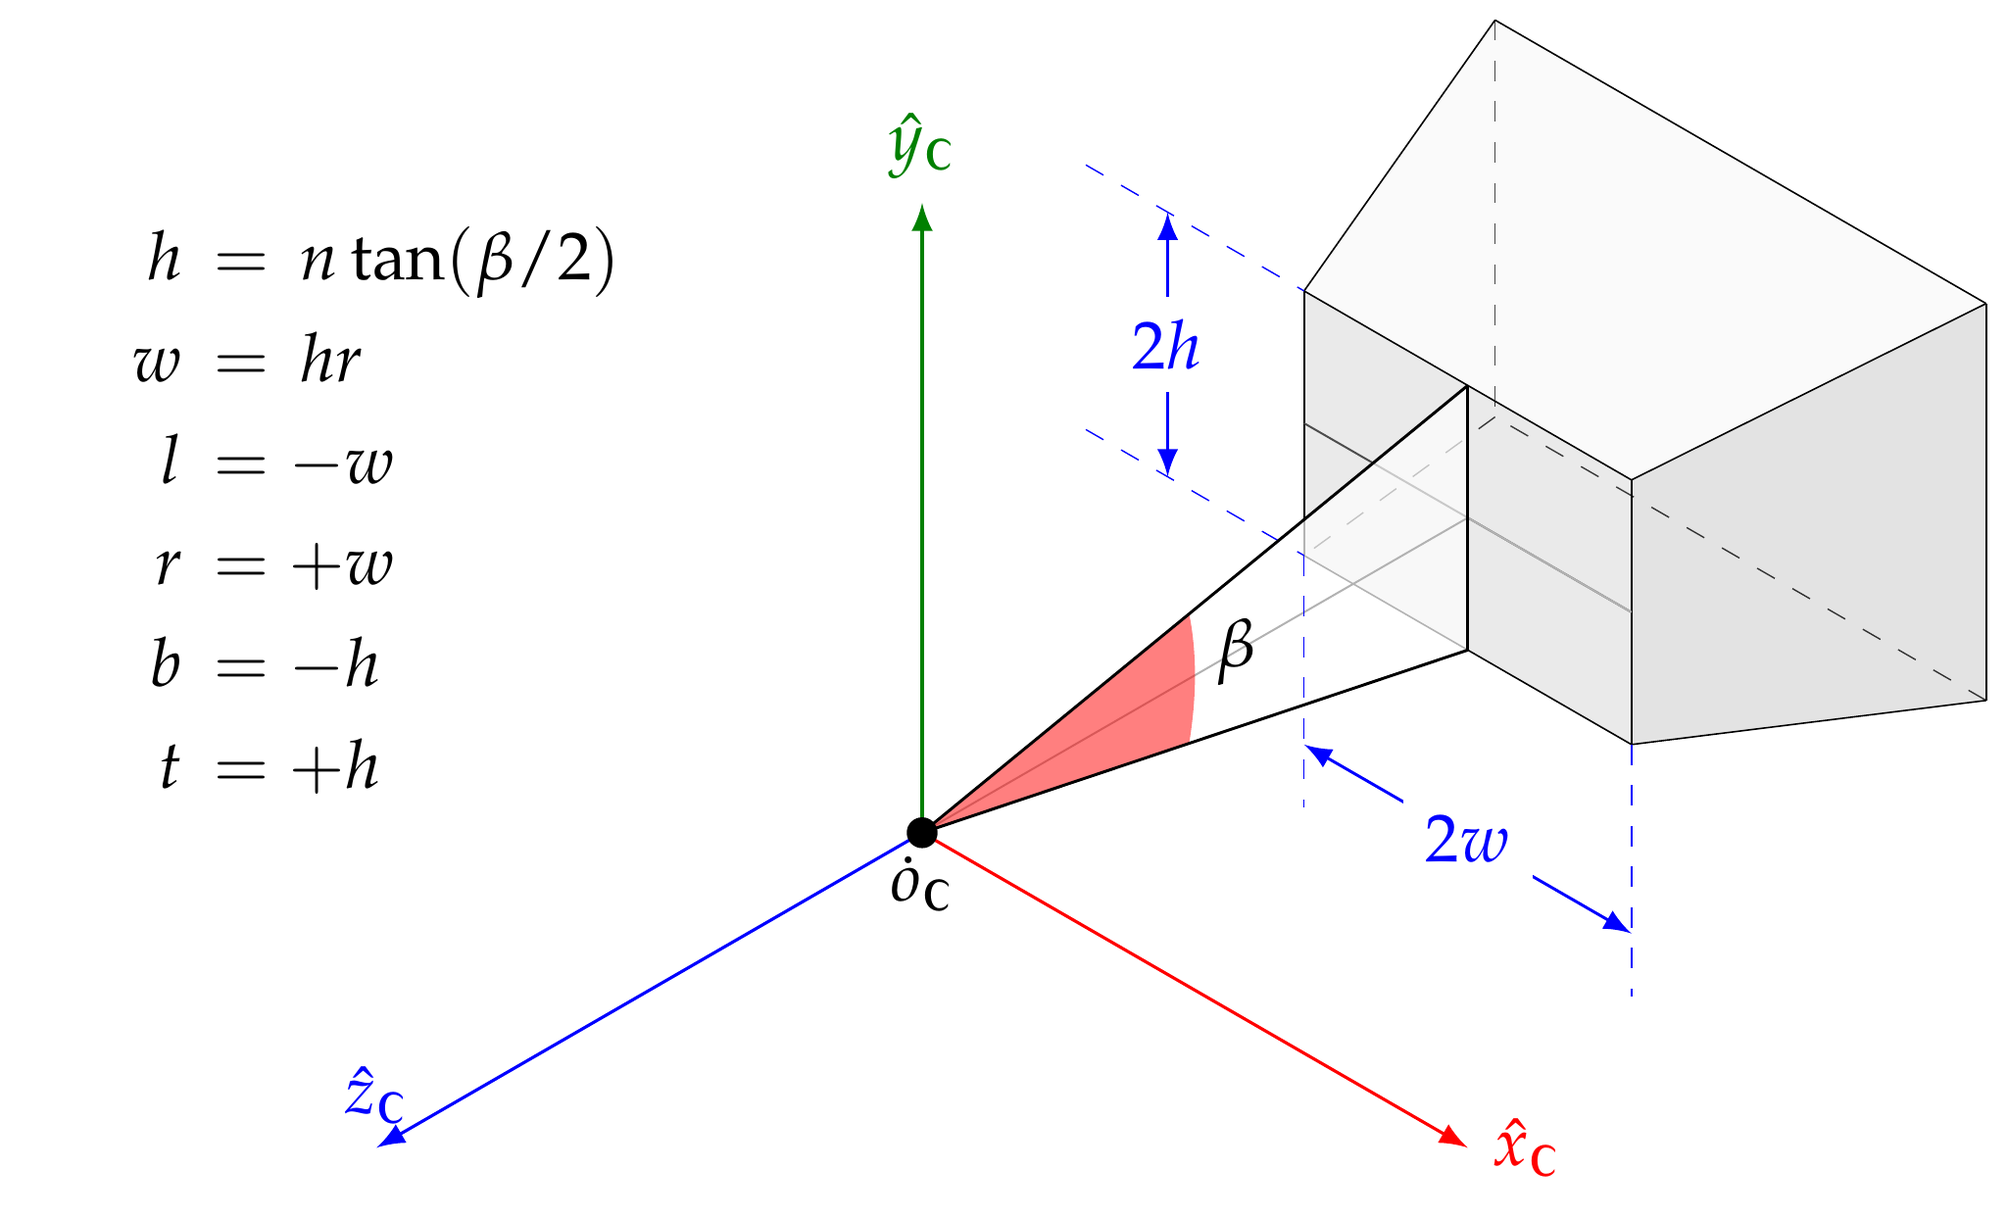
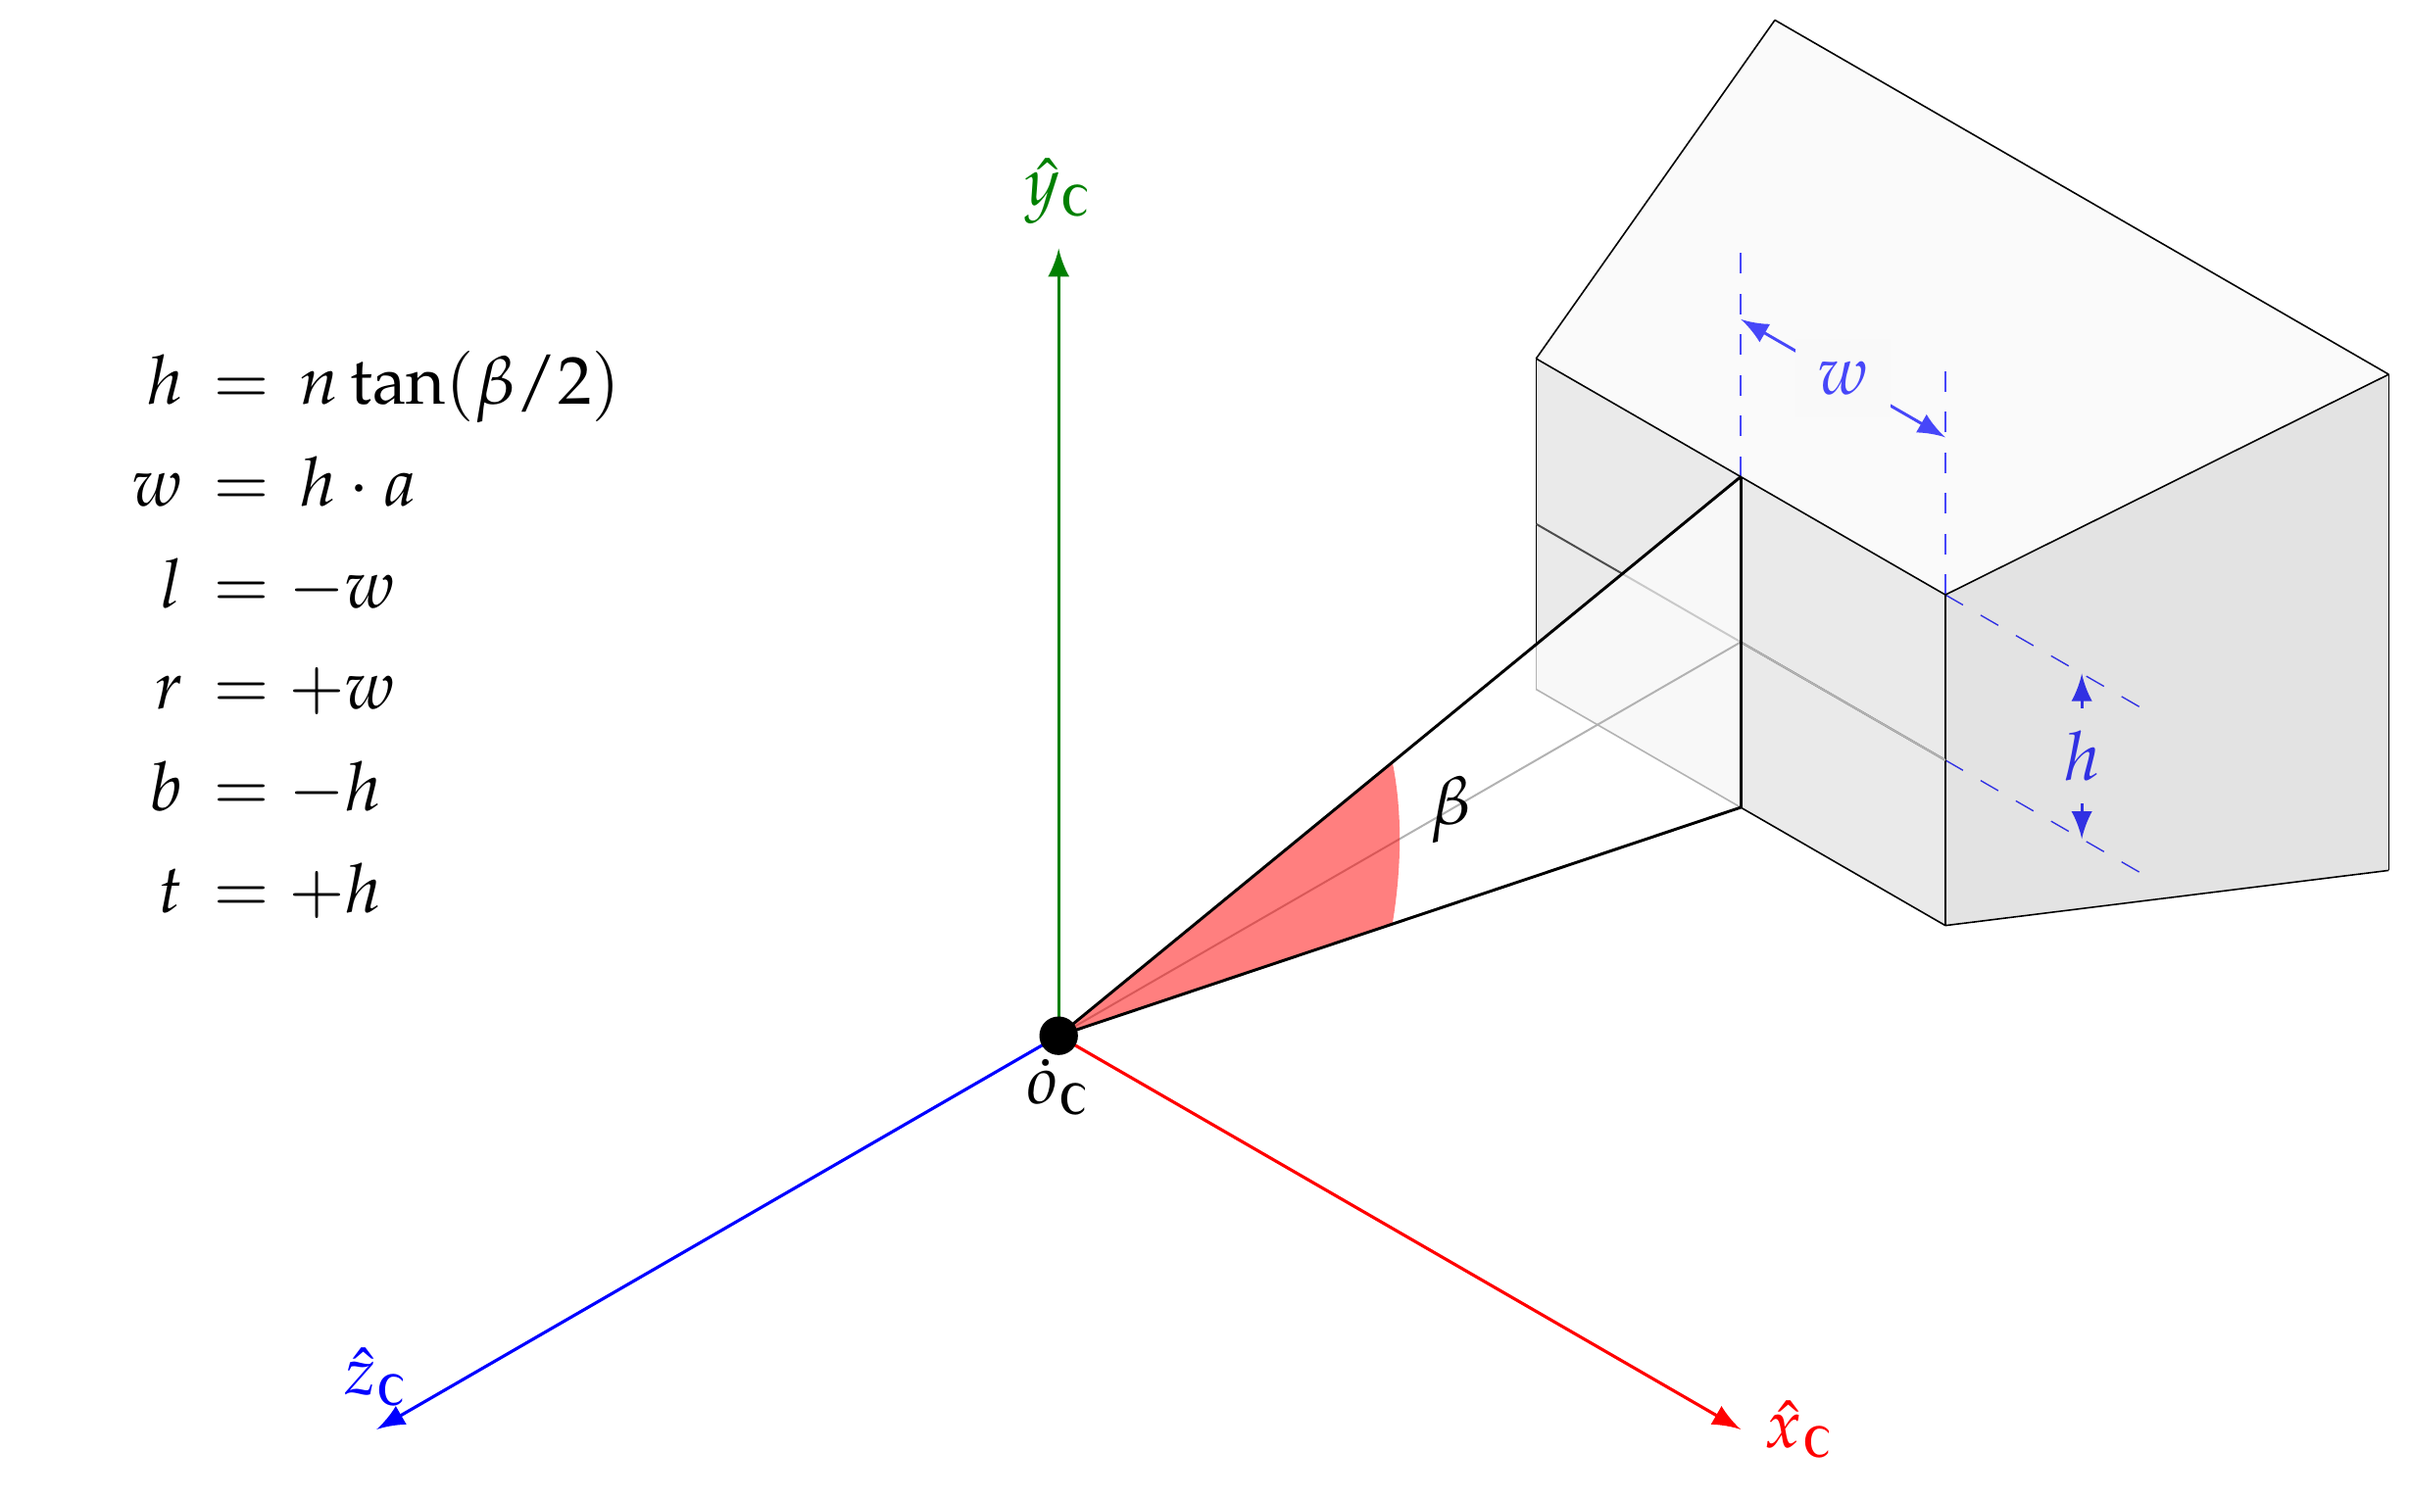
updates to fig 6

diff --git a/src/fig06-frustum2.cpp b/src/fig06-frustum2.cpp
@@ -35,10 +35,32 @@ int main( int argc, char *argv[] )
    const auto view_vec = Vec3 { 1, 1, 1 };
 
    define_isometric_proj( view_vec );
-   
-   cout << "\\begin{tikzpicture}[scale=4,isometric_proj]" << endl ;
 
-   fm.draw_style_2( view_vec );
+   // tikzpicture environment begins
+   cout << "\\begin{tikzpicture}[scale=5,isometric_proj]" << endl ;
+
+    // lines marking the width and heigth of frustum front face
+   // width:
+   // line( {l,b,-n}, {l,b-0.4,-n}, "line width=0.07mm,dashed,color=blue", "" );
+   // line( {r,b,-n}, {r,b-0.4,-n}, "line width=0.07mm,dashed,color=blue", "" );
+   // line( {l,b-0.3,-n}, {r,b-0.3,-n}, "<->,>=latex,line width=0.15mm,color=blue", " node[fill=white,pos=0.5,anchor=center] {$2w$}" );
+  
+   line( {0.0,t,-n}, {0.0,t+0.3,-n}, "line width=0.07mm,dashed,color=blue", "" );
+   line( {r,t,-n},   {r,t+0.3,-n}, "line width=0.07mm,dashed,color=blue", "" );
+   line( {0.0,t+0.2,-n}, {r,t+0.2,-n}, "<->,>=latex,line width=0.15mm,color=blue", " node[fill=white,pos=0.5,anchor=center] {$w$}" );
+  
+
+   // height
+   // line( {l-0.4,b,-n}, {l,b,-n}, "line width=0.07mm,dashed,color=blue", "" );
+   // line( {l-0.4,t,-n}, {l,t,-n}, "line width=0.07mm,dashed,color=blue", "" );
+   // line( {l-0.25,b,-n},{l-0.25,t,-n}, "<->,>=latex,line width=0.15mm,color=blue", " node[fill=white,pos=0.5,anchor=center] {$2h$}" );
+
+   line( {r,0.0,-n}, {r+0.3,0.0,-n}, "line width=0.07mm,dashed,color=blue", "" );
+   line( {r,t,-n},   {r+0.3,t,-n}, "line width=0.07mm,dashed,color=blue", "" );
+   line( {r+0.2,0.0,-n},{r+0.2,t,-n}, "<->,>=latex,line width=0.15mm,color=blue", " node[fill=white,pos=0.5,anchor=center] {$h$}" );
+   
+
+   fm.draw_style_3( view_vec );
 
    // filled triangle with 'beta' arc and bisectriz
 
@@ -52,17 +74,7 @@ int main( int argc, char *argv[] )
       << "      -- cycle ;" << endl 
       << "\\draw[color=black!30!white,line width=0.1mm] (0,0,0) -- (0,0," << -n << ") -- (" << r << ",0," << -n << ") ;" << endl ;
 
-   // lines marking the width and heigth of frustum front face
-   // width:
-   line( {l,b,-n}, {l,b-0.4,-n}, "line width=0.07mm,dashed,color=blue", "" );
-   line( {r,b,-n}, {r,b-0.4,-n}, "line width=0.07mm,dashed,color=blue", "" );
-   line( {l,b-0.3,-n}, {r,b-0.3,-n}, "<->,>=latex,line width=0.15mm,color=blue", " node[fill=white,pos=0.5,anchor=center] {$2w$}" );
   
-   // height
-   line( {l-0.4,b,-n}, {l,b,-n}, "line width=0.07mm,dashed,color=blue", "" );
-   line( {l-0.4,t,-n}, {l,t,-n}, "line width=0.07mm,dashed,color=blue", "" );
-   line( {l-0.25,b,-n},{l-0.25,t,-n}, "<->,>=latex,line width=0.15mm,color=blue", " node[fill=white,pos=0.5,anchor=center] {$2h$}" );
-
    // angulo relleno correspondiente a hfovy
    const unsigned ns = 16 ;
    const float    hfovy_ang_rad = 2.0*std::atan2(0.5*(t-b),n) , 
@@ -92,7 +104,7 @@ int main( int argc, char *argv[] )
    cout << "     \\path " << Vec3{0.0,1.0,1.0} << endl 
         << "         node[anchor=center] {$\\begin{aligned}" << endl 
         << "           h\\,&=\\,n\\tan(\\beta/2) \\\\" << endl 
-        << "           w\\,&=\\,hr \\\\" << endl 
+        << "           w\\,&=\\,h\\cdot a \\\\" << endl 
         << "           l\\,&=-w \\\\" << endl 
         << "           r\\,&=+w \\\\" << endl
         << "           b\\,&=-h \\\\" << endl

diff --git a/src/utils.h b/src/utils.h
@@ -290,7 +290,7 @@ class IndPolMesh
    }
 
    // ------------------------------------------------------------
-   // draw the mesh by using a particular style, named as 'style 1'
+   // draw the mesh by using a particular style, named as 'style 2'
 
    void draw_style_2( const Vec3 & view_vec ) const 
    {
@@ -302,6 +302,29 @@ class IndPolMesh
 
       // draw frustum back-facing edges (dashed)
       draw_edges_type( 0, "line width=0.07mm,dashed", edges_types );      
+
+      // draw frustum filled front-facing polygons
+      //draw_filled_ff_pols( view_vec, "fill=gray,opacity=0.2" );
+      draw_filled_shaded_ff_pols( view_vec, { 1.0f, 3.0f, 2.0f} );
+
+      // draw frustum front facing and contour edges
+      draw_edges_type( 2, "line width=0.08mm,color=black", edges_types ); // front facing edges
+      draw_edges_type( 1, "line width=0.08mm,color=black", edges_types ); // contour edges (thicker)
+   }
+
+    // ------------------------------------------------------------
+   // draw the mesh by using a particular style, named as 'style 3'
+
+   void draw_style_3( const Vec3 & view_vec ) const 
+   {
+      // classify edges according to 'v'
+      std::vector<unsigned> edges_types ; // for each edge: 0 -> backfacing, 1 -> contour, 2--> front facing, 3 --> single adjacent polygon  
+      compute_edges_types( view_vec, edges_types ) ;
+
+      //fm.draw_normals( 0.4, "->,>=latex,line width=0.3mm,color=blue" );
+
+      // draw frustum back-facing edges (dashed)
+      //draw_edges_type( 0, "line width=0.07mm,dashed", edges_types );      
 
       // draw frustum filled front-facing polygons
       //draw_filled_ff_pols( view_vec, "fill=gray,opacity=0.2" );

diff --git a/README.md b/README.md
@@ -52,7 +52,7 @@ for `gluPerspective` function.
 <h2>Figure 5</h2>
 
 The perspective view-frustum is shown, along with the coordinates of its vertexes, in terms of _l_,_r_,_b_,_t_,_n_ and _f_. 
-These coordinates are relative to the camera reference system.
+These coordinates are relative to the camera reference system. This helps to understand the parameters for `glFrustum` function.
 
 <div align="center">
     <img src="pngs/fig05-frustum1.png" width="400px"</img> 
